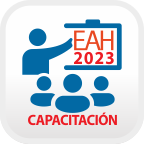
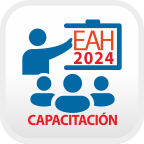
Nuevos iconos para Eah2024 y en metadatos_eah2024.php ponemos condición para no regenerar la tabla plana_tem.

Changed region(s): [[0.5556, 0.3611, 0.8056, 0.4722]]

diff --git a/eah2024/metadatos_eah2024.php b/eah2024/metadatos_eah2024.php
@@ -197,7 +197,7 @@ class Tablas_planas extends Objeto_de_la_base{
         $tabla_matrices=$this->contexto->nuevo_objeto('Tabla_matrices');
         $tabla_matrices->leer_varios(array('mat_ope'=>$GLOBALS['NOMBRE_APP']));
         while($tabla_matrices->obtener_leido()){
-        // if ($tabla_matrices->datos->mat_for!='TEM'){
+        if ($tabla_matrices->datos->mat_for!='TEM'){
         //if ($tabla_matrices->datos->mat_for=='A1'){    
                 $tra_for=$tabla_matrices->datos->mat_for;
                 $tra_mat=$tabla_matrices->datos->mat_mat;
@@ -205,7 +205,7 @@ class Tablas_planas extends Objeto_de_la_base{
                 $tabla_plana=$this->contexto->nuevo_objeto("Tabla_plana_{$tra_for}_{$tra_mat}");
                 $tabla_plana->ejecutar_instalacion($con_dependientes);
         //  } 
-        //} 
+        } 
        }
     }
     function crear_jsones(){
